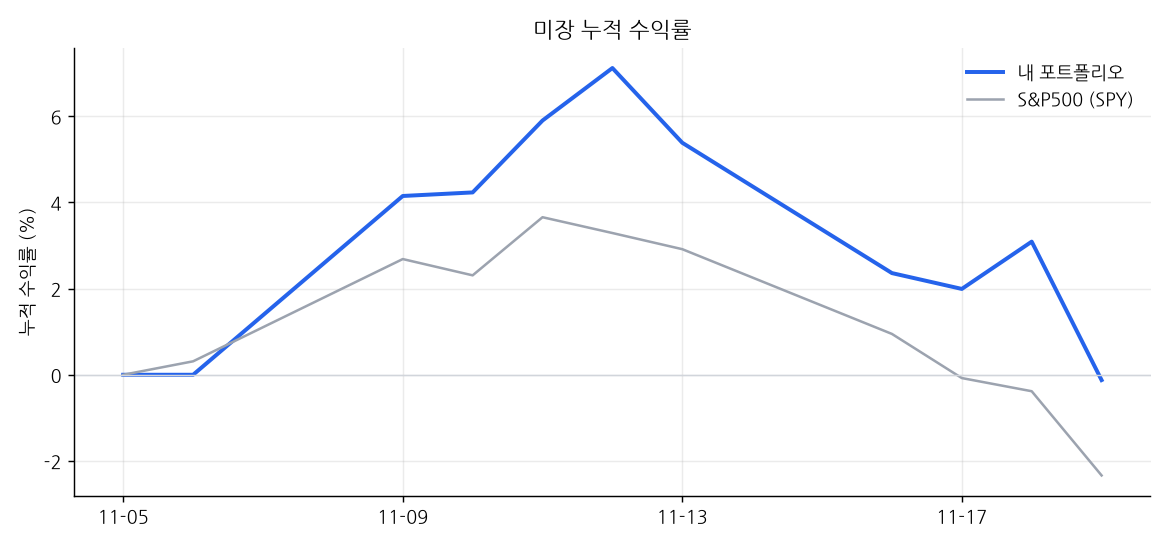
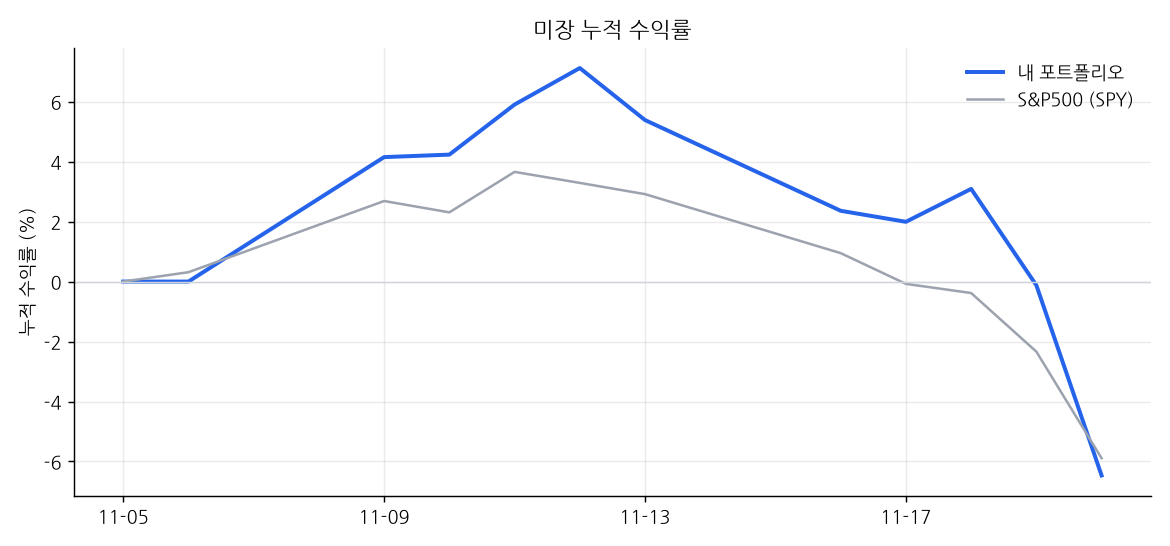
dashboard 2026-11-21 07:30

diff --git a/README.md b/README.md
@@ -1,10 +1,10 @@
 # 📈 내 자동매매 포트폴리오
 
-_마지막 갱신: 2026-11-20 16:00 (KST) · 라즈베리파이 자동 업데이트_
+_마지막 갱신: 2026-11-21 07:30 (KST) · 라즈베리파이 자동 업데이트_
 
 | 트랙 | 시작일 | 누적 수익률 | 비교 지수 | 초과 | 최근 1개월 | 국면 |
 |---|---|---|---|---|---|---|
-| 미장 | 2026-11-05 | **-0.12%** | -2.34% | +2.21% | - | BULL |
+| 미장 | 2026-11-05 | **-6.47%** | -5.89% | -0.57% | - | BEAR |
 | 국장 | 2026-11-06 | **-1.67%** | -3.54% | +1.87% | - | BEAR |
 
 ## 미장
@@ -13,17 +13,17 @@ _마지막 갱신: 2026-11-20 16:00 (KST) · 라즈베리파이 자동 업데이
 
 | 종목 | 비중 |
 |---|---|
-| AVGO | 11.2% |
-| AMD | 10.8% |
-| TSLA | 10.6% |
-| AAPL | 10.2% |
-| AMZN | 9.8% |
+| AAPL | 10.7% |
+| AVGO | 10.5% |
+| TSLA | 10.4% |
+| LLY | 10.1% |
+| AMZN | 10.1% |
+| AMD | 10.0% |
+| GOOGL | 9.7% |
 | META | 9.6% |
-| LLY | 9.5% |
-| GOOGL | 9.3% |
-| MSFT | 9.0% |
-| NVDA | 7.5% |
-| 현금 | 2.4% |
+| MSFT | 9.4% |
+| NVDA | 6.9% |
+| 현금 | 2.6% |
 
 ![미장 비중](charts/us_weights.png)
 
